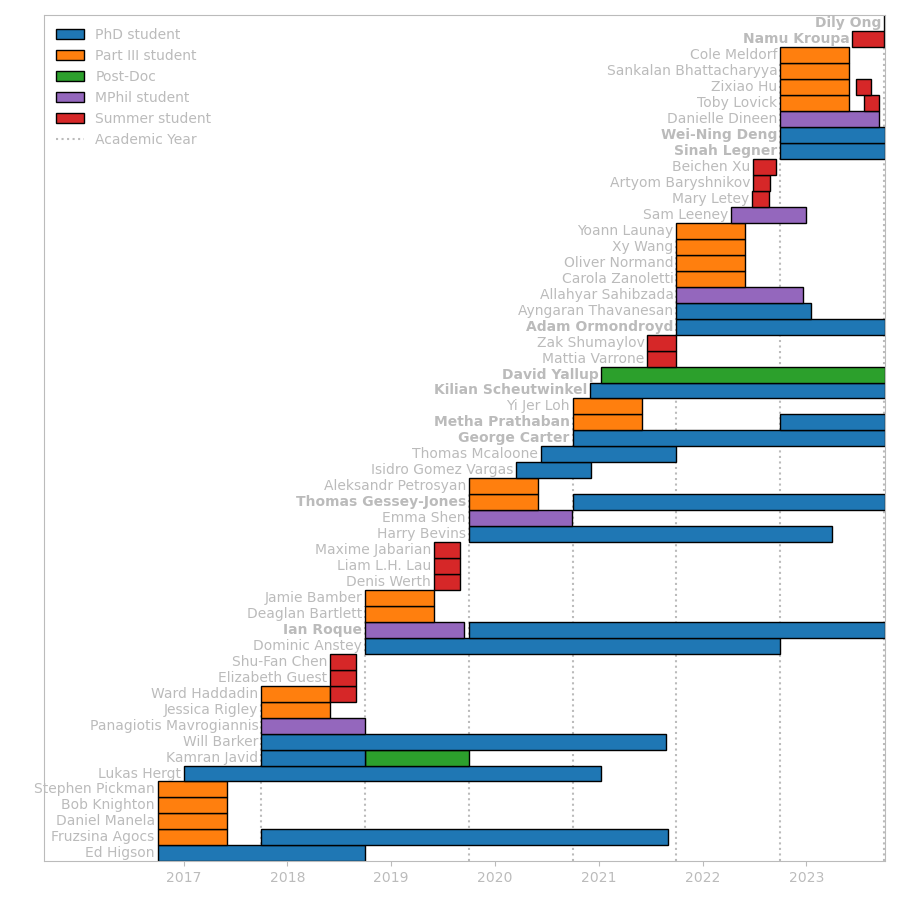
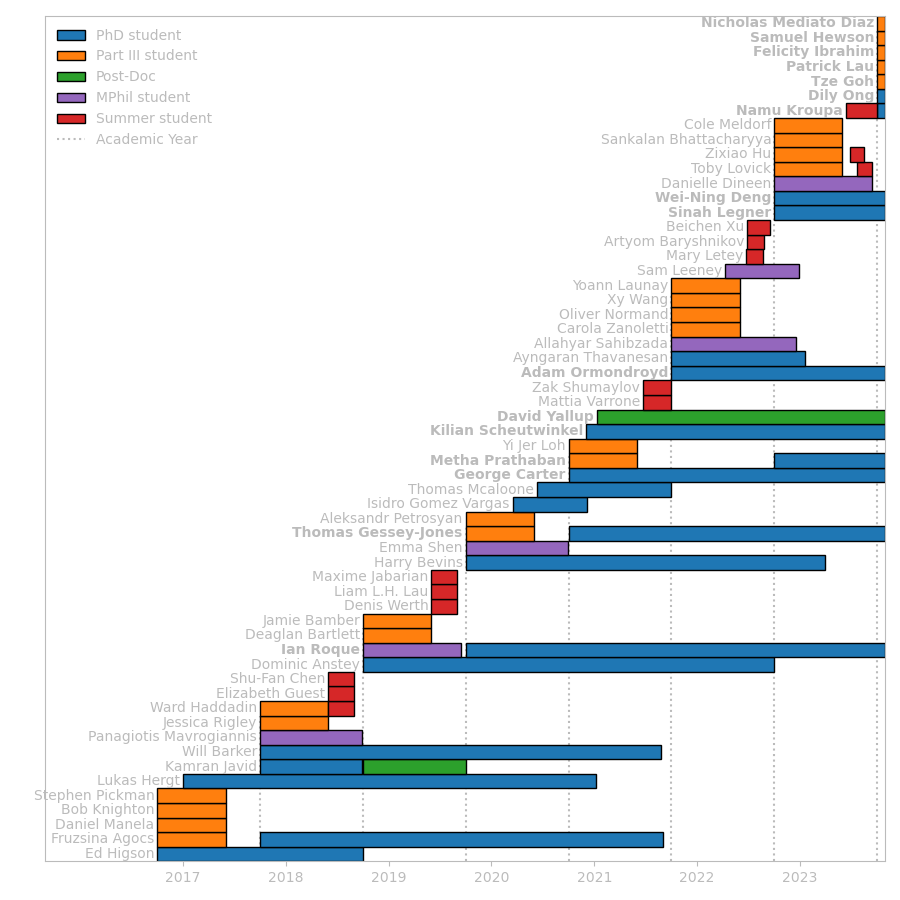
Updated

diff --git a/assets/students/students.html b/assets/students/students.html
@@ -131,6 +131,9 @@
       <p>
         <ul>
           <li>PhD student from Oct 2021<ul><li>co-supervised with <a href="https://www.phy.cam.ac.uk/directory/lasenbya">Anthony Lasenby</a>, <a href="https://www.phy.cam.ac.uk/directory/hobsonm">Mike Hobson</a></li></ul></li>
+          <li>
+            <a href="https://arxiv.org/search/?query=handley%2C+w%3B+Ormondroyd%2CA&searchtype=author">Shared research papers (1)</a>
+          </li>
           <li>Links:</li>
           <ul>
             <li>
@@ -214,6 +217,76 @@
               <a href="https://www.astro.phy.cam.ac.uk/directory/ian-roque">Webpage</a>
             </li>
           </ul>
+        </ul>
+      </p>
+    </div>
+  </div>
+</div>
+<div class="wrapper" style="margin-top:30pt">
+  <h1>Part III students</h1>
+  <div class="grid">
+    <div class="grid-item">
+      <img src="/assets/images/user.png" />
+    </div>
+    <div class="grid-item">
+      <p>
+        <font size="+2">Tze Goh</font>
+      </p>
+      <p>
+        <ul>
+          <li>Part III student from Oct 2023<ul><li>co-supervised with <a href="https://www.lucy.cam.ac.uk/fellows/dr-suhail-dhawan">Suhail Dhawan</a></li></ul></li>
+        </ul>
+      </p>
+    </div>
+    <div class="grid-item">
+      <img src="/assets/images/user.png" />
+    </div>
+    <div class="grid-item">
+      <p>
+        <font size="+2">Patrick Lau</font>
+      </p>
+      <p>
+        <ul>
+          <li>Part III student from Oct 2023</li>
+        </ul>
+      </p>
+    </div>
+    <div class="grid-item">
+      <img src="/assets/students/images/felicity_ibrahim.jpg" />
+    </div>
+    <div class="grid-item">
+      <p>
+        <font size="+2">Felicity Ibrahim</font>
+      </p>
+      <p>
+        <ul>
+          <li>Part III student from Oct 2023</li>
+        </ul>
+      </p>
+    </div>
+    <div class="grid-item">
+      <img src="/assets/images/user.png" />
+    </div>
+    <div class="grid-item">
+      <p>
+        <font size="+2">Samuel Hewson</font>
+      </p>
+      <p>
+        <ul>
+          <li>Part III student from Oct 2023</li>
+        </ul>
+      </p>
+    </div>
+    <div class="grid-item">
+      <img src="/assets/images/user.png" />
+    </div>
+    <div class="grid-item">
+      <p>
+        <font size="+2">Nicholas Mediato Diaz</font>
+      </p>
+      <p>
+        <ul>
+          <li>Part III student from Oct 2023</li>
         </ul>
       </p>
     </div>
@@ -568,7 +641,7 @@
           </li>
           <li>Subsequent career:</li>
           <ul>
-            <li>Oct 2020: PhD in Radio astronomy, Cambridge</li>
+            <li>Oct 2021: PhD in Radio astronomy, Cambridge</li>
           </ul>
         </ul>
       </p>
